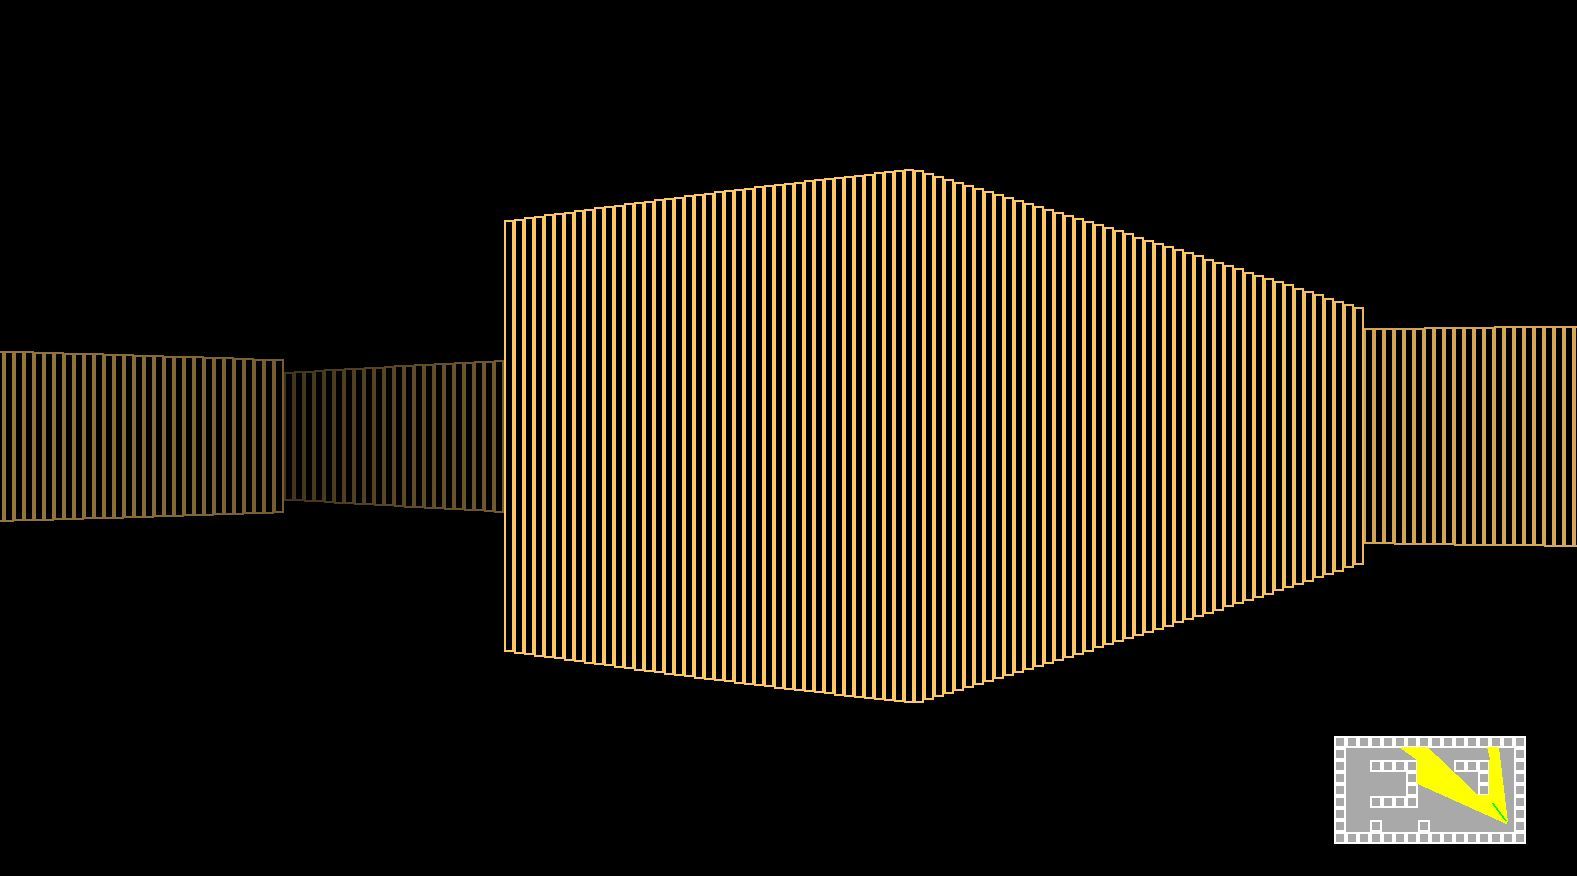
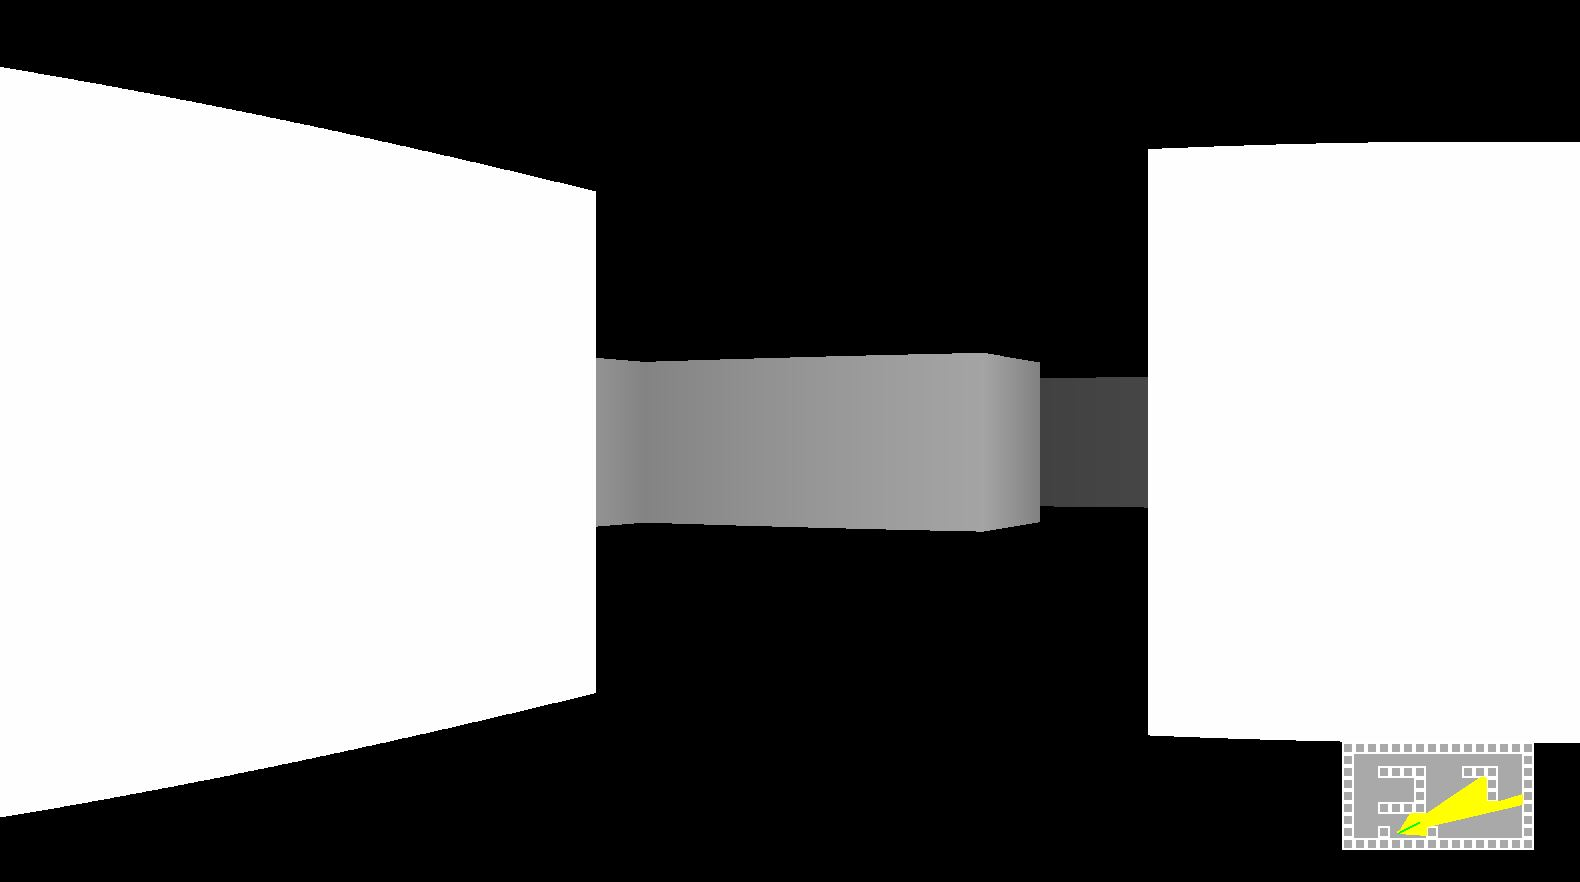
3d back to white blocks

diff --git a/object_renderer.py b/object_renderer.py
@@ -25,12 +25,11 @@ class ObjectRenderer:
         # 3D - FOV
         elif dimension == 3 and not render_textures:
             for ray, (depth, proj_height, _, _, _) in enumerate(self.game.ray_casting.ray_casting_results):
-                color = 255 / (1 + depth ** 5 * 0.00002), 200 / (1 + depth ** 5 * 0.00002), 100 / (1 + depth ** 5 * 0.00002)
+                color = [255 / (1 + depth ** 5 * 0.00002),] * 3
                 pg.draw.rect(
                     self.game.screen, 
                     color,
                     (ray * SCALE, HALF_HEIGHT - proj_height // 2, SCALE, proj_height),
-                    width=2
                 )
         
         # 3D-render: FOV with textures
